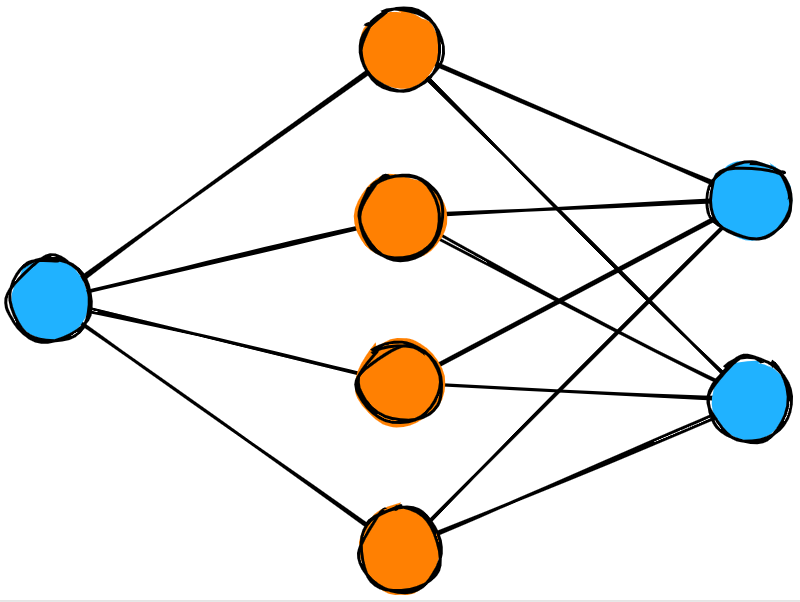
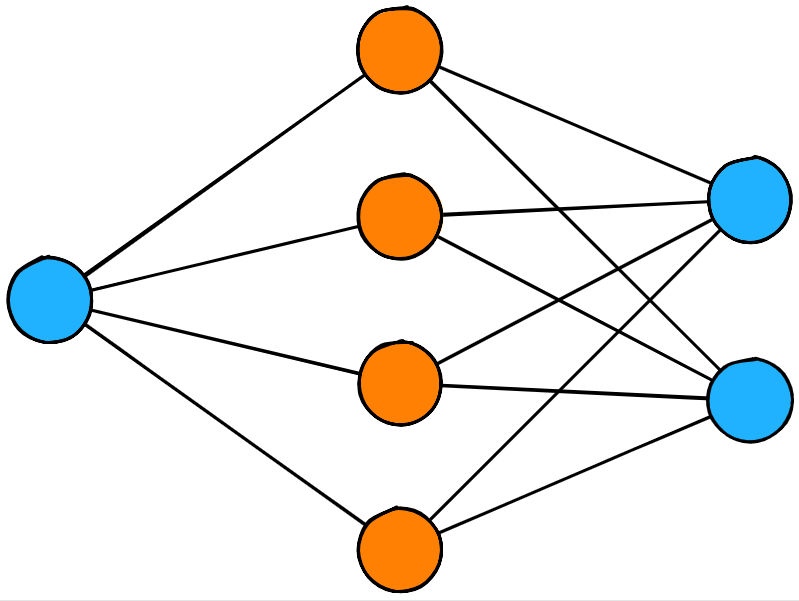
Use slightly less rough sample image

diff --git a/example/index.js b/example/index.js
@@ -14,11 +14,9 @@ while (root.firstChild) {
 new NNVisualizer(root, {
   width: 800,
   height: 600,
-  // lineColor: 'rgba(0,0,0,0.7)',
   network: {
     vertical: false,
-    // fillStyle: 'zigzag',
-    roughness: 2,
+    roughness: 0.5,
     layers: [
       {
         units: "1",
